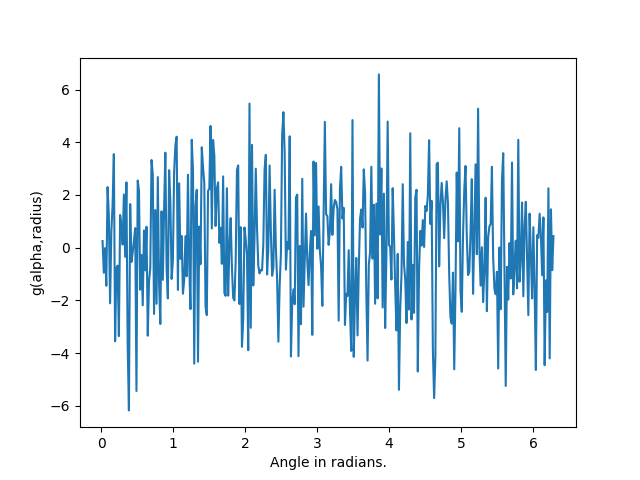
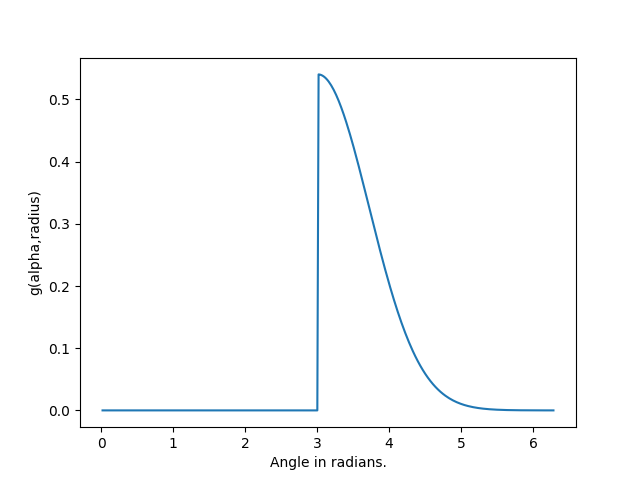
modified graph representation

diff --git a/scripts/python/plot_image.py b/scripts/python/plot_image.py
@@ -10,7 +10,7 @@ height = 512
 A = 1.0
 B = 1.0
 C = 0.5
-n = 10
+n = 2
 
 
 def alpha_0(r):
@@ -21,16 +21,28 @@ def g(alpha, r):
     return A * np.exp(-np.mod(alpha - alpha_0(r), 2*np.pi)**2 / r) * np.cos(B * r**(3/2))
     # return A * np.exp(-(r * np.mod(alpha - alpha_0(r), 2*np.pi) - alpha_0(r)) / r) * np.cos(B * r**(3/2)) * r
 
+
+# plot 1-d 
+# search 
 def generate_graph():
-	r = np.linspace(1,360,num=360, dtype=int)
+
+	n_radius = 2
+
+	r = np.linspace(1,n_radius,num=n_radius, dtype=int)
 	alpha = np.radians(np.linspace(1,360,num=360, dtype=int))
-	z = np.zeros_like(alpha)
-	for i in range(n):
-	    z += g(alpha, r * (i+1))
+
+	print(alpha)
 
 	plt.xlabel("Angle in radians.")
 	plt.ylabel("g(alpha,radius)")
-	plt.plot(alpha,z)
+
+
+	for j in range(1,n_radius):
+		z = np.zeros_like(alpha)
+		for i in range(0,len(alpha)):
+			z[i]= g(alpha[i], j)
+		plt.plot(alpha,z)
+
 	plt.savefig("../../Images/graph_sinusoid.png")
 
 

diff --git a/scripts/python/translate_test.py b/scripts/python/translate_test.py
@@ -3,6 +3,8 @@ import matplotlib.pyplot as plt
 
 # Sample input array
 x = np.array([1, 2, 3, 4, 5, 6, 7, 8])
+plt.plot(x)
+plt.show()
 
 # Perform FFT
 X = np.fft.fft(x)
